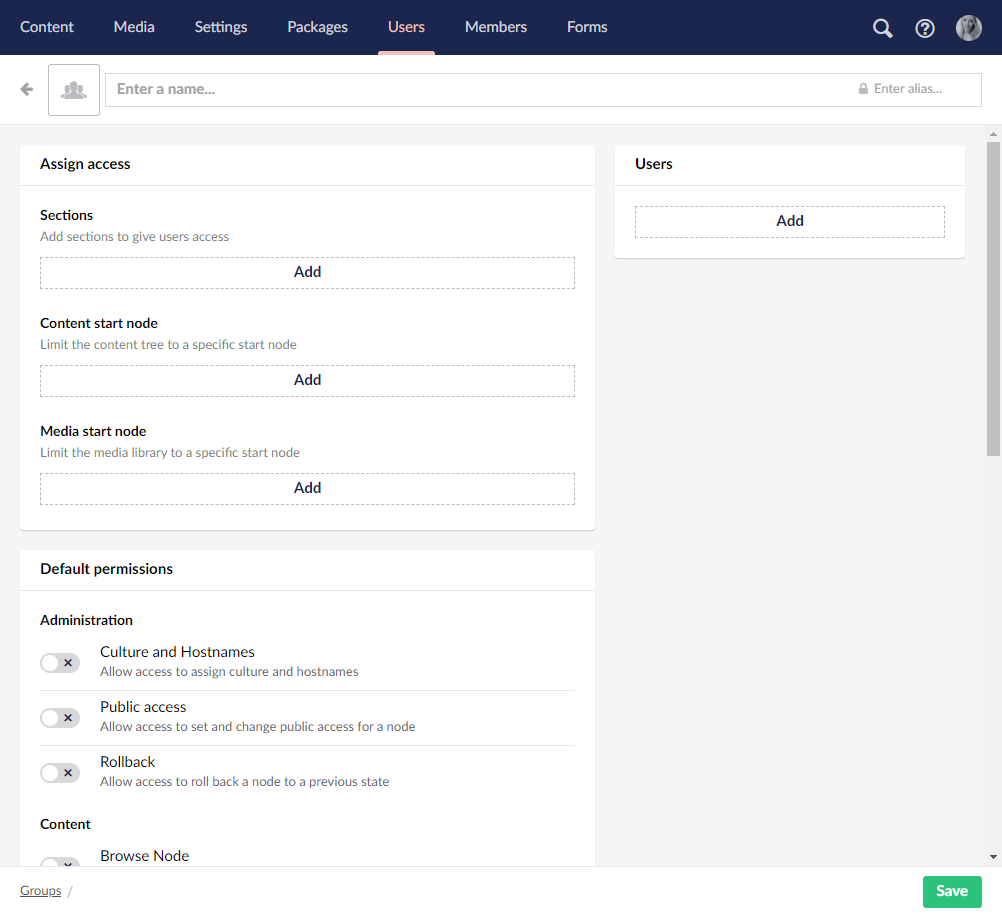
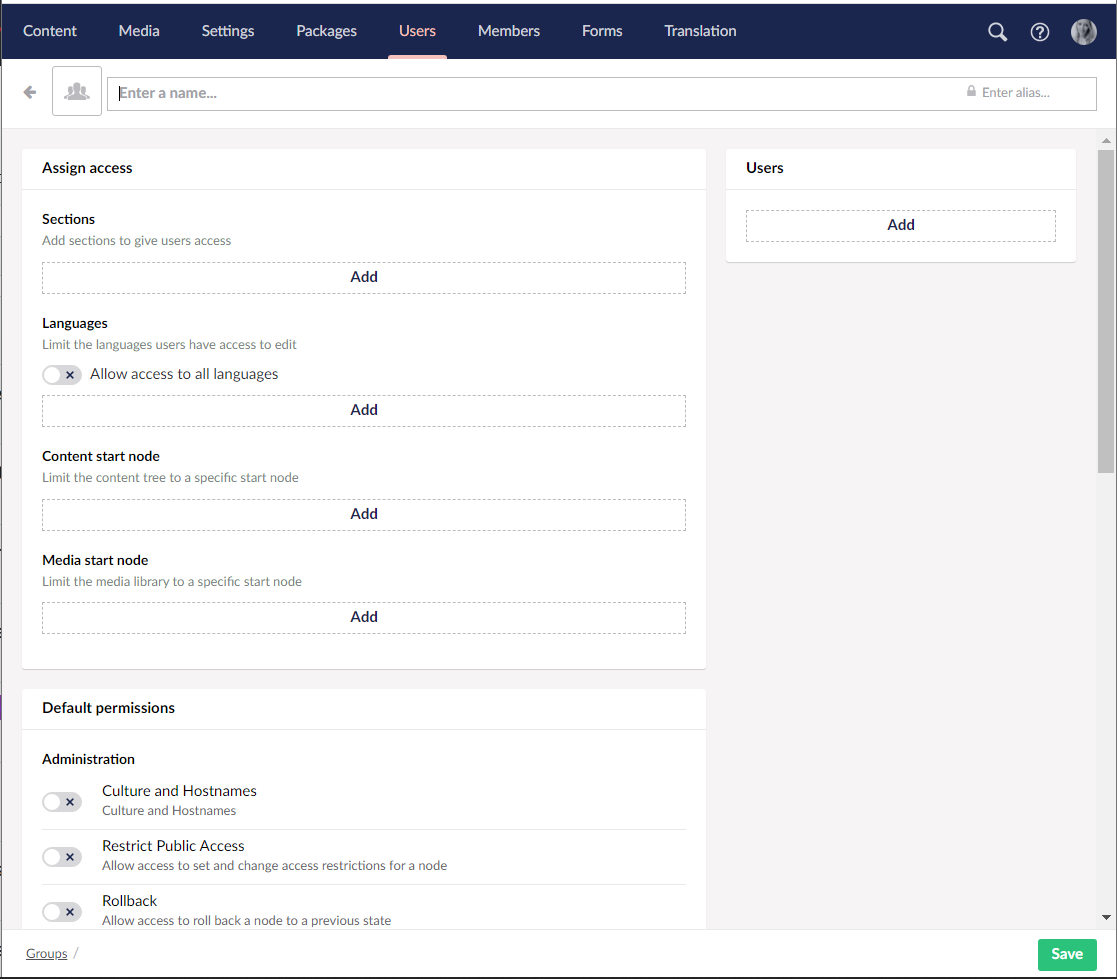
New images and cleaned up the article a bit

diff --git a/Fundamentals/Backoffice/Variants/index.md b/Fundamentals/Backoffice/Variants/index.md
@@ -9,6 +9,18 @@ versionTo: 10.0.0
 
 Language Variants allows you to vary content by culture, so you can allow a content node to exist in several languages.
 
+This article will cover the various aspects of enabling and working with language variants on your Umbraco website.
+
+## Contents
+
+* [Video tutorial](#video-tutorial)
+* [How to enable Language Variants](#how-to-enable-language-variants)
+* [Enabling Language Variants on Document Types](#enabling-language-variants-on-document-types)
+* [Control User Group permissions on language variants](#control-user-group-permissions-on-language-variants)
+* [Working with Language Variants on content](#working-with-language-variants-on-content)
+* [Test your language variants](#test-your-language-variants)
+* [Read more](#read-more)
+
 ## Video tutorial
 
 <iframe width="800" height="450" title="Language Variants" src="https://www.youtube.com/embed/TWLqt-jVdyQ?rel=0" frameborder="0" allow="autoplay; encrypted-media" allowfullscreen></iframe>
@@ -23,15 +35,16 @@ To work with Language Variants you need to have more than one language enabled. 
 You will always have one default language but each language can be set to mandatory.
 :::
 
-## Enabling Language Variants on doctypes
+## Enabling Language Variants on Document Types
 
-Now that there are two languages to vary the content with, it needs to be enabled on the document types. To do so:
+Now that there are two languages to vary the content with, it needs to be enabled on the Document Types. To do so:
 
 1. Go to the document type in the **Settings** section.
-2. In the top-right corner, go to **Permissions** and toggle **Allow vary by culture**.
+2. Open the **Permissions** page.
+3. Toggle **Allow vary by culture**.
     ![Allowing variance on doc types](images/allow-variance_v10.png)
 
-To allow a property on the doctype to be varied it will have to be enabled for the property:
+To allow a property on the Document Type to be varied it will have to be enabled for the property:
 
 ![Allowing variance on properties](images/varying-properties_v10.png)
 
@@ -39,14 +52,14 @@ To allow a property on the doctype to be varied it will have to be enabled for t
 
 When you return to your content node you will notice two things:
 
-1. At the top of the content tree there will now be a dropdown so you can show the content tree in the language of your choice.
+1. At the top of the Content tree there will now be a dropdown so you can show the Content tree in the language of your choice.
 2. To the right of the content name there is now a dropdown where you can select a language. You can also open a split view so you can see two languages at once.
 
     ![Allowing variance on properties](images/varying-content_v10.png)
 
-Each property editor that does not allow variants will be greyed out and have the content of the default language.
+Each Property Editor that does not allow variants will be greyed out and have the content of the default language.
 
-To read about how you render variant content in templates, check out the [rendering content section](../../Design/Rendering-Content/).
+To read about how you render variant content in Templates, check out the [rendering content section](../../Design/Rendering-Content/).
 
 ## Test your language variants
 
@@ -57,8 +70,11 @@ Culture and hostnames must be added to your language sites before the content ca
     :::note
     In Umbraco v9, this option is called **Culture and Hostnames**.
     :::
-2. Add a specific url per language and save. For eg: An English language variant with English (United States) as the language can be given a specific url *<https://yourwebsite.com/en-us>* and a Danish language variant can be given a specific url *<https://yourwebsite.com/dk>*.
-3. The Info content app should now show specific urls for your language variants.
+2. Add a specific URL per language and save. For eg: An English language variant with English (United States) as the language can be given a specific URL *<https://yourwebsite.com/en-us>* and a Danish language variant can be given a specific URL *<https://yourwebsite.com/dk>*.
+
+The Info content app should now show specific URLs for your language variants.
+
+## Control User Group permissions on language variants
 
 ## Read more
 

diff --git a/Fundamentals/Data/Users/index.md b/Fundamentals/Data/Users/index.md
@@ -64,7 +64,7 @@ Shows basic information about the User Group and settings for custom properties.
 
 - **Name**: The name of the User Group shown in the User Group tab.
 - **Alias**: Used to Reference the User Group in code - the alias will be auto-generated based on the name.
-- **Assign access**: Define which sections the users in the group will have access to, and if the users should have access to only some content / media that is also defined here.
+- **Assign access**: Define which sections and languages the users will have access to, and if the users should have access to only some or all content and media.
 - **Default Permissions**: Selects the default permissions granted to users of the User Group.
 - **Granular permissions**: Define a specific node the users in the group should have access to.
 - **Users**: Add users to the new group.
